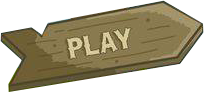
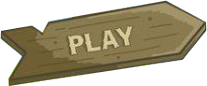
Embellissement des boutons du menu (Coucou Momo ;D)
Mise à jour de la classe Bt Game et ajout d'attributs pour que les boutons soient transparents

diff --git a/carcassonne/src/carcassonne/menuStart/GameMenu.java b/carcassonne/src/carcassonne/menuStart/GameMenu.java
@@ -21,10 +21,10 @@ import javax.swing.JFrame;
 public class GameMenu extends JFrame
 {
 
-    private final BtGame play = new BtGame("resources/BtPlay.PNG");
-    private final BtGame exit = new BtGame("resources/BtExit.PNG");
-    private final BtGame btsettings = new BtGame("resources/BtSettings.PNG");
-    private final BtGame btinstructions = new BtGame("resources/instructions.PNG");
+    private final BtGame btPlay = new BtGame("resources/Play.PNG");
+    private final BtGame btSettings = new BtGame("resources/Settings.PNG");
+    private final BtGame btInstructions = new BtGame("resources/instructions.PNG");
+    private final BtGame btExit = new BtGame("resources/Exit.PNG");
     private final String path = "resources/musicMenu.mp3";
     private final Sounds music = new Sounds(path);
 
@@ -40,23 +40,26 @@ public class GameMenu extends JFrame
 
         this.setLayout(null);
 
-        this.add(btinstructions);
-        btinstructions.setBounds(840, 730, 160, 85);
-        btinstructions.setBorderPainted(false);
+        /*this.add(btInstructions);
+        btInstructions.setBounds(840, 730, 160, 85);
+        btInstructions.setBorderPainted(false);
 
-        btinstructions.addActionListener(new ActionListener()
+        btInstructions.addActionListener(new ActionListener()
         {
             @Override
             public void actionPerformed(ActionEvent e)
             {
             }
-        });
+        });*/
+        
+        this.add(btPlay);
+        btPlay.setOpaque(false);
+        btPlay.setContentAreaFilled(false);
+        btPlay.setBorderPainted(false);
+        btPlay.setBounds(400, 300, 207, 92);
+        //btPlay.setBorderPainted(false);
 
-        this.add(play);
-        play.setBounds(400, 300, 160, 85);
-        play.setBorderPainted(false);
-
-        play.addActionListener(new ActionListener()
+        btPlay.addActionListener(new ActionListener()
         {
             @Override
             public void actionPerformed(ActionEvent e)
@@ -72,10 +75,12 @@ public class GameMenu extends JFrame
             }
         });
 
-        this.add(btsettings);
-        btsettings.setBounds(400, 400, 160, 85);
-        btsettings.setBorderPainted(false);
-        btsettings.addActionListener(new ActionListener()
+        this.add(btSettings);
+        btSettings.setBounds(400, 400, 207, 92);
+        btSettings.setOpaque(false);
+        btSettings.setContentAreaFilled(false);
+        btSettings.setBorderPainted(false);
+        btSettings.addActionListener(new ActionListener()
         {
             @Override
             public void actionPerformed(ActionEvent e)
@@ -93,10 +98,12 @@ public class GameMenu extends JFrame
 
         });
 
-        this.add(exit);
-        exit.setBounds(400, 500, 160, 85);
-        exit.setBorderPainted(false);
-        exit.addActionListener(new ActionListener()
+        this.add(btExit);
+        btExit.setBounds(400, 500, 207, 92);
+        btExit.setOpaque(false);
+        btExit.setContentAreaFilled(false);
+        btExit.setBorderPainted(false);
+        btExit.addActionListener(new ActionListener()
         {
             @Override
             public void actionPerformed(ActionEvent e)
@@ -108,6 +115,5 @@ public class GameMenu extends JFrame
         this.setVisible(true);
 
         music.play();
-
     }
 }

diff --git a/carcassonne/src/carcassonne/menuStart/BtGame.java b/carcassonne/src/carcassonne/menuStart/BtGame.java
@@ -7,11 +7,11 @@ package carcassonne.menuStart;
 
 /**
  *
- * @author thomas
+ * @author thomas, bertrand
  */
+import java.awt.Dimension;
 import java.awt.Graphics;
-import java.awt.Graphics2D;
-import java.awt.Image;
+import java.awt.image.BufferedImage;
 import java.io.File;
 import java.io.IOException;
 import javax.imageio.ImageIO;
@@ -20,7 +20,7 @@ import javax.swing.JButton;
 public class BtGame extends JButton
 {
 
-    private Image img;
+    private BufferedImage img;
 
     public BtGame(String image)
     {
@@ -33,7 +33,12 @@ public class BtGame extends JButton
     @Override
     public void paintComponent(Graphics g)
     {
-        Graphics2D g2d = (Graphics2D) g;
-        g2d.drawImage(img, 0, 0, this.getWidth(), this.getHeight(), this);
+        super.paintComponent(g);
+        g.drawImage(img, 0, 0, null);
+    }
+    
+    @Override
+    public Dimension getPreferredSize() {
+        return new Dimension(img.getWidth(), img.getHeight());
     }
 }
